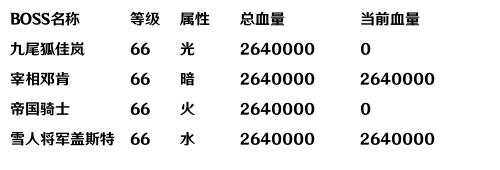
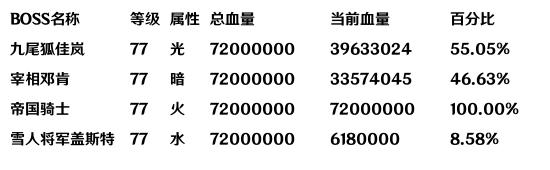
进度加入百分比显示

diff --git a/payload/dao.py b/payload/dao.py
@@ -2,7 +2,7 @@
 Author: 七画一只妖 1157529280@qq.com
 Date: 2023-03-27 10:45:06
 LastEditors: 七画一只妖 1157529280@qq.com
-LastEditTime: 2023-03-31 13:25:49
+LastEditTime: 2023-03-31 21:29:42
 '''
 from PIL import Image, ImageDraw, ImageFont
 from pathlib import Path
@@ -29,7 +29,8 @@ async def get_data(date: str = None):
     if date == None:
         now = datetime.datetime.now().strftime("%Y-%m-%d")
         now_time = datetime.datetime.strptime(now, "%Y-%m-%d").date()
-        latest_time = datetime.datetime.strptime(FIGHT_LIST[-1], "%Y-%m-%d").date()
+        latest_time = datetime.datetime.strptime(
+            FIGHT_LIST[-1], "%Y-%m-%d").date()
         if latest_time > now_time:
             date = now
         else:
@@ -117,7 +118,8 @@ async def get_data_total():
                     }}
                 )
             else:
-                total_data[item["user_name"]]["damage_total"] += item["damage_total"]
+                total_data[item["user_name"]
+                           ]["damage_total"] += item["damage_total"]
                 total_data[item["user_name"]]["fight_total"] += fight_total
 
     total_data = sorted(total_data.items(),
@@ -173,9 +175,9 @@ def _get_max_size(text: str) -> tuple:
 
 
 async def get_rate():
-    resp_data:dict = await f_get_rate_data()
+    resp_data: dict = await f_get_rate_data()
 
-    image_size = (500, 170)
+    image_size = (550, 170)
     font = ImageFont.truetype(FONT_PATH, size=15)
 
     # Create image and drawing object
@@ -183,20 +185,25 @@ async def get_rate():
     draw = ImageDraw.Draw(image)
 
     # Define table headers
-    headers = ['BOSS名称', '等级', '属性', '总血量', '当前血量']
+    headers = ['BOSS名称', '等级', '属性', '总血量', '当前血量', "百分比"]
 
     # Define table data
     # data = [['九尾狐佳岚', '66', '光', '2640000', '2640000'],
     #         ['宰相邓肯', '66', '暗', '2640000', '2640000']]
 
     # 数据转换
-    data:list = []
+    data: list = []
     for item in resp_data["boss"]:
-        data_item = [str(item["name"]), str(item["level"]), item["elemental_type_cn"], str(item["total_hp"]), str(item["remain_hp"])]
+        data_item = [str(item["name"]),
+                     str(item["level"]),
+                     item["elemental_type_cn"],
+                     str(item["total_hp"]),
+                     str(item["remain_hp"]),
+                     _percentage(item["remain_hp"],item["total_hp"])]
         data.append(data_item)
 
     # Define column widths
-    col_widths = [120, 50, 60, 120, 120]
+    col_widths = [120, 40, 40, 120, 120, 40]
 
     # Draw table headers
     x_pos = 10
@@ -218,4 +225,9 @@ async def get_rate():
     save_path = f"{BASE_PATH}\\cache\\rate.jpg"
     image.save(save_path)
     return save_path
-    
+
+
+def _percentage(smaller, bigger):
+    if smaller == 0:
+        return '0.00%'
+    return '{:.2%}'.format(float(smaller) / float(bigger))

diff --git a/main.py b/main.py
@@ -2,7 +2,7 @@
 Author: 七画一只妖 1157529280@qq.com
 Date: 2023-03-27 09:01:10
 LastEditors: 七画一只妖 1157529280@qq.com
-LastEditTime: 2023-03-31 13:34:44
+LastEditTime: 2023-03-31 21:30:43
 FilePath: \060坎公骑冠剑会战工具\main.py
 Description: 这是默认设置,请设置`customMade`, 打开koroFileHeader查看配置 进行设置: https://github.com/OBKoro1/koro1FileHeader/wiki/%E9%85%8D%E7%BD%AE
 '''
@@ -15,10 +15,10 @@ import asyncio
 loop = asyncio.get_event_loop()
 
 # 日报
-loop.run_until_complete(dao.get_data())
+# loop.run_until_complete(dao.get_data())
 
 # 总伤害排行
 # loop.run_until_complete(dao.get_data_total())
 
 # 进度
-# print(loop.run_until_complete(dao.get_rate()))
+print(loop.run_until_complete(dao.get_rate()))
